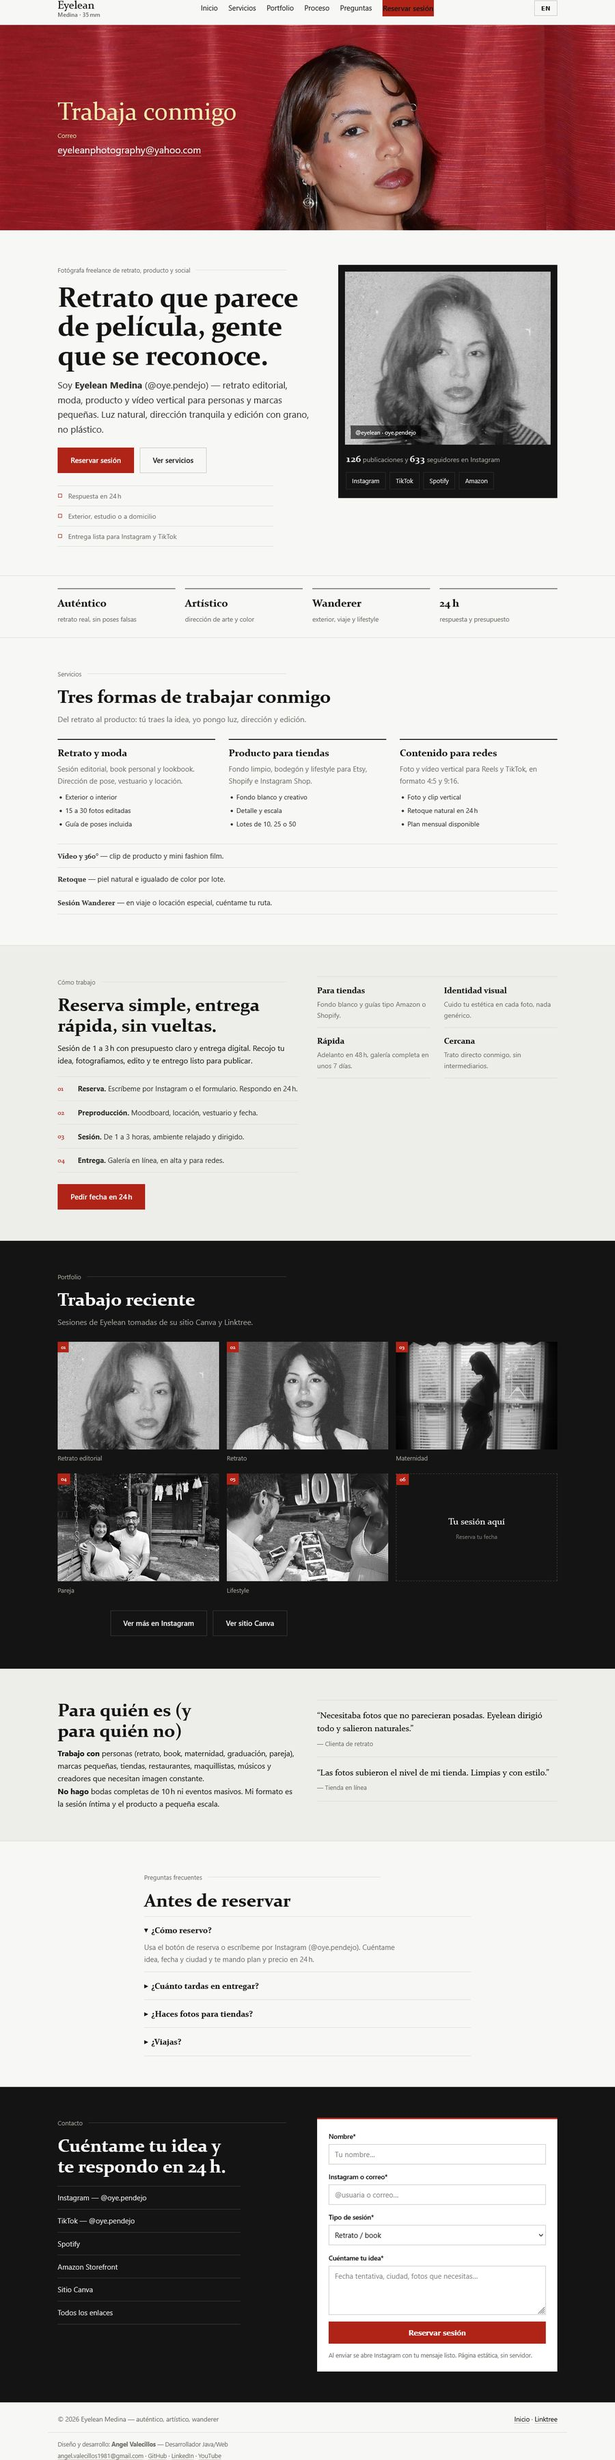
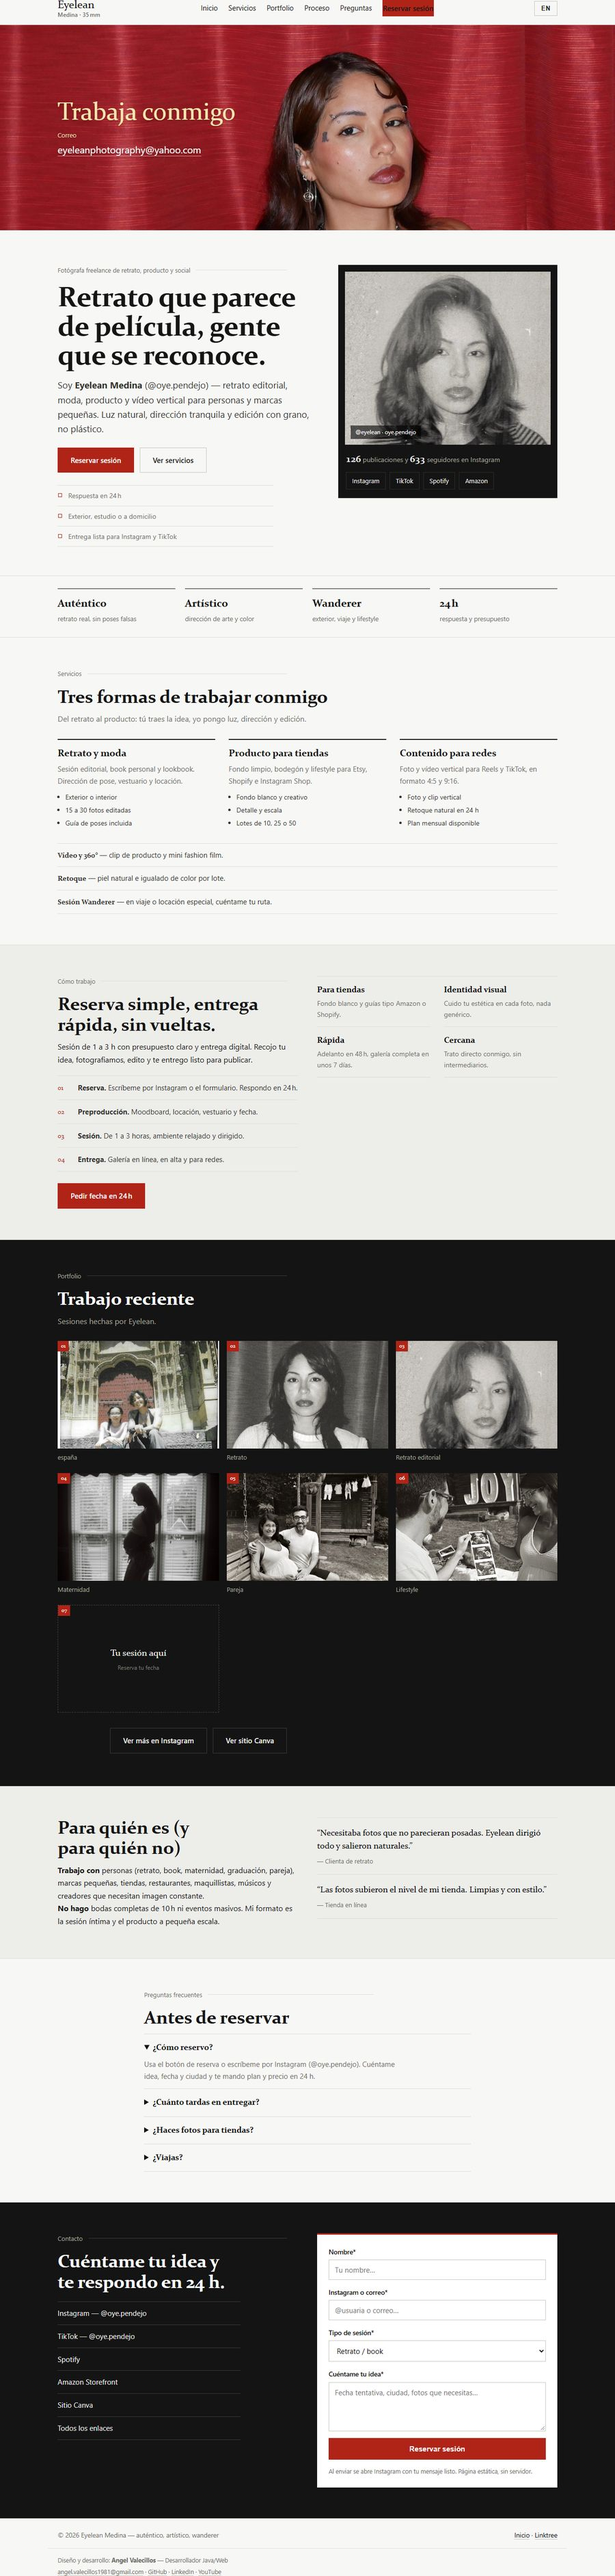
Capturas de Aleen recien sacadas de produccion, ficha actualizada y enlace a itch.io con boton Jugar en el Zorro

diff --git a/script.js b/script.js
@@ -23,6 +23,13 @@
     return "status-info";
   };
 
+  // Etiqueta del botón naranja de cada tarjeta: `demoLabel` la pone a medida
+  // (el Zorro usa "Jugar" porque su enlace es itch.io); si no, un .pdf es el
+  // manual y cualquier otra cosa es "Ver sitio".
+  const etiquetaDemo = (item) =>
+    item.demoLabel ||
+    (item.demoUrl && item.demoUrl.toLowerCase().endsWith(".pdf") ? "Manual.pdf" : "Ver sitio");
+
   // Header
   d.getElementById("name").textContent = data.name;
   d.getElementById("mainSkill").textContent = data.mainSkill;
@@ -151,8 +158,7 @@
         demoLink.href = e.demoUrl;
         demoLink.target = "_blank";
         demoLink.rel = "noopener";
-        // Misma etiqueta que en Proyectos: si es un PDF es el manual, si no, el sitio.
-        demoLink.textContent = e.demoUrl.toLowerCase().endsWith(".pdf") ? "Manual.pdf" : "Ver sitio";
+        demoLink.textContent = etiquetaDemo(e);
         actions.appendChild(demoLink);
       }
 
@@ -178,7 +184,7 @@
             : `<img class="project-media" alt="Imagen del proyecto ${p.title}" src="${p.imageUrl}" />`)
         : "";
 
-    const demoLabel = p.demoUrl && p.demoUrl.toLowerCase().endsWith(".pdf") ? "Manual.pdf" : "Ver sitio";
+    const demoLabel = etiquetaDemo(p);
     const actions = `
       <div class="card-actions">
         ${p.repoUrl ? `<a class="btn-outline" href="${p.repoUrl}" target="_blank" rel="noopener">Código</a>` : ""}

diff --git a/content.js b/content.js
@@ -140,9 +140,11 @@ window.portfolioData = {
       subtitle: "Juego de mesa HTML5",
       status: "Terminado",
       description:
-        "Juego de mesa venezolano (2 zorros vs 20 gallinas) en HTML5 puro sin dependencias. 2 jugadores o contra IA, con apodos por bando, sonido, soplo, pantalla completa y reglas en pantalla. Funciona en PC y móvil.",
+        "Juego de mesa venezolano (2 zorros vs 20 gallinas) en HTML5 puro sin dependencias. 2 jugadores o contra IA, con apodos por bando, sonido, soplo, pantalla completa y reglas en pantalla. Funciona en PC y móvil, y está publicado en itch.io.",
       tech: ["HTML", "CSS", "JavaScript"],
       repoUrl: "https://github.com/angelvalecillos/zorro-y-la-gallina",
+      demoUrl: "https://valecillos.itch.io/el-zorro-y-la-gallina",
+      demoLabel: "Jugar",
       imageUrl: "assets/zorro.jpg",
       imageLayout: "scroll"
     },
